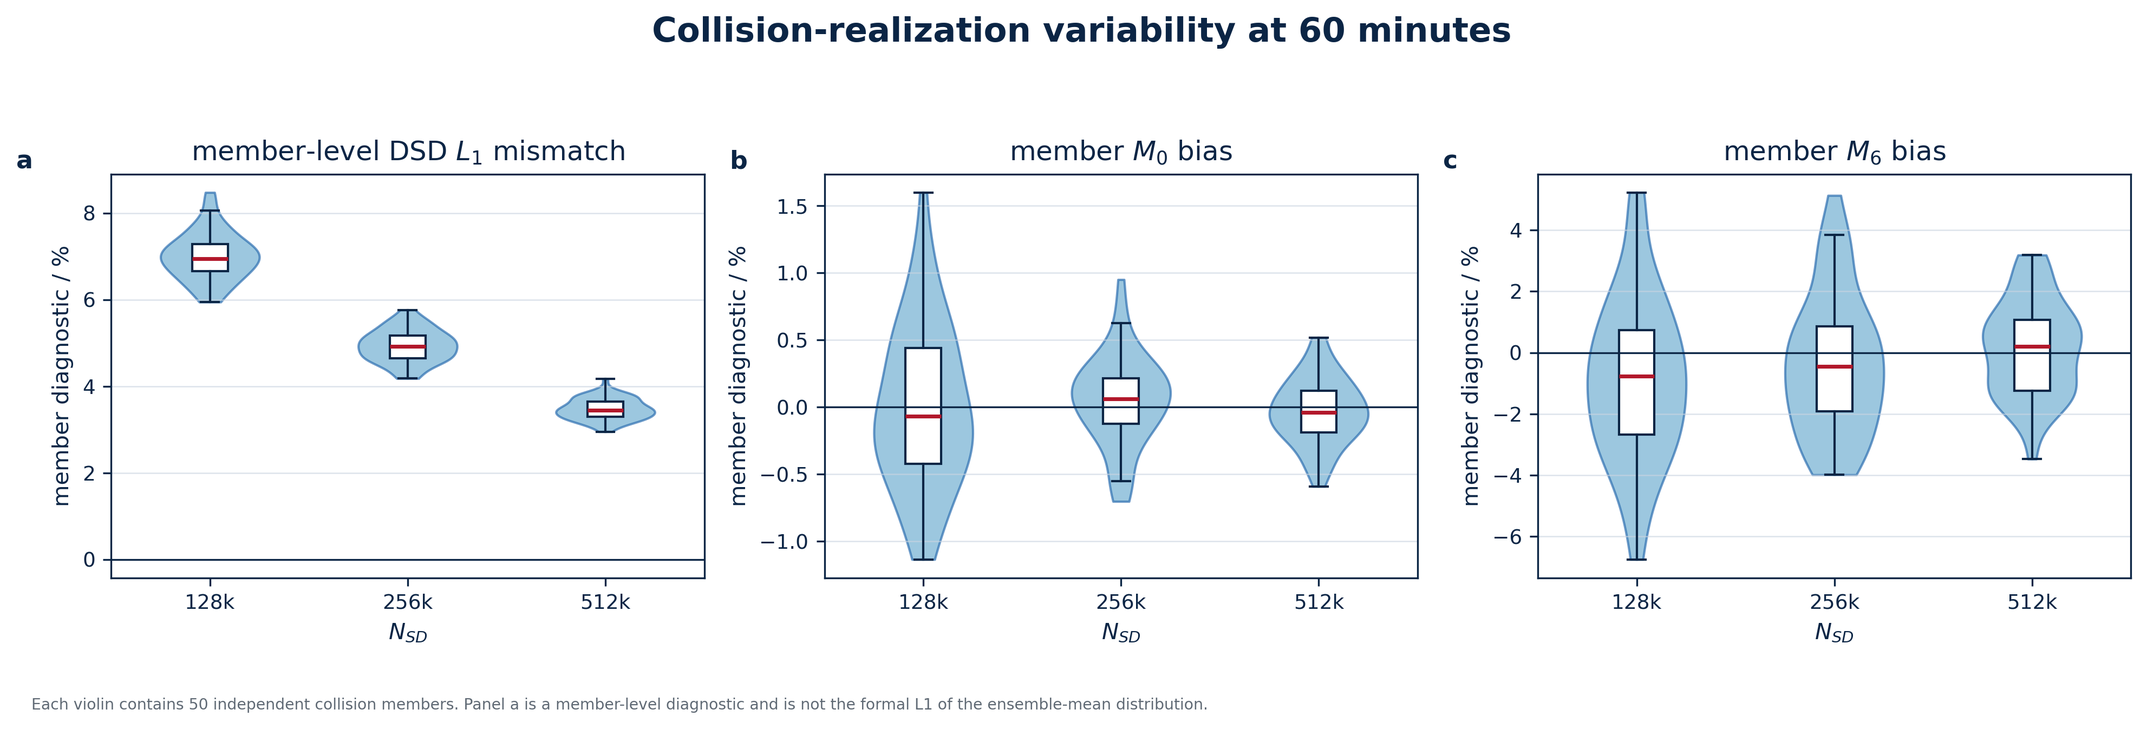
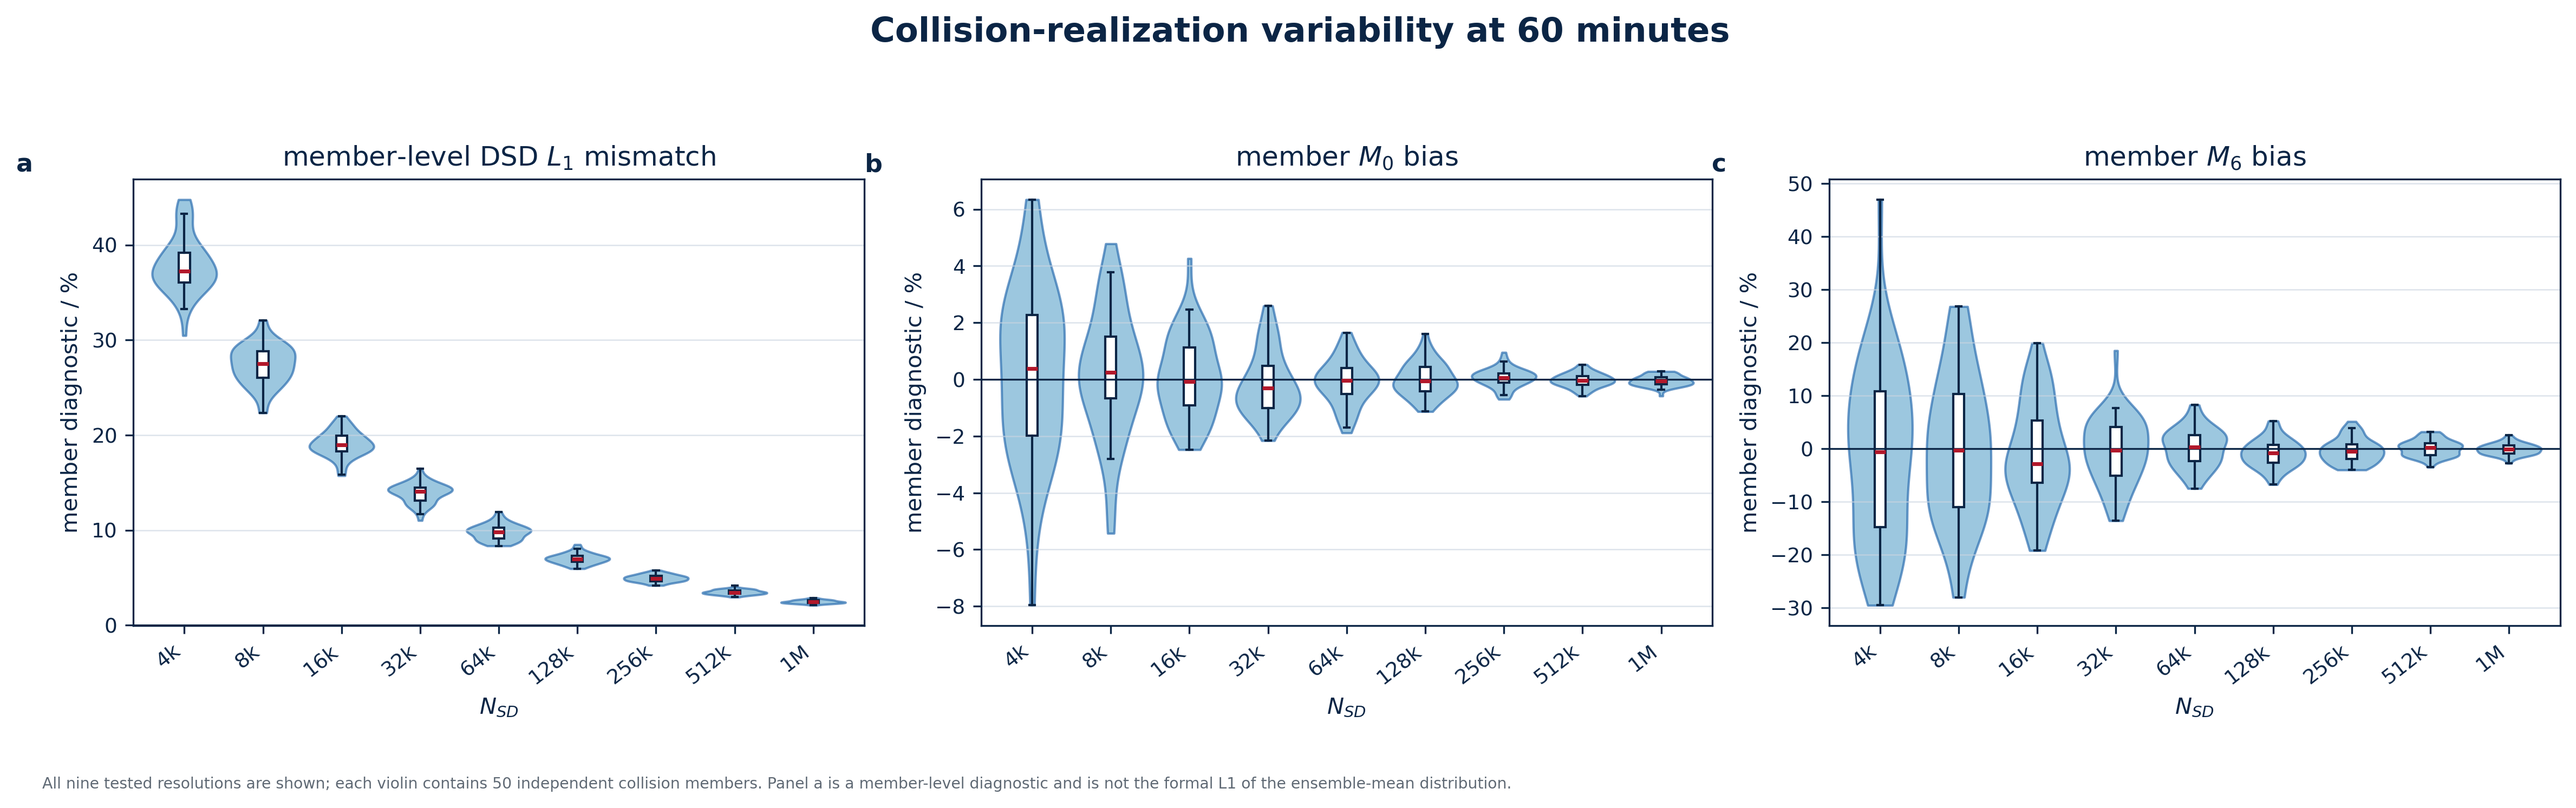
figures: show variability across all Golovin resolutions

diff --git a/scripts/plot_golovin_explanatory_figures.py b/scripts/plot_golovin_explanatory_figures.py
@@ -711,33 +711,51 @@ def plot_integrity_qa(diagnostics: pd.DataFrame, output: Path) -> None:
 
 
 def plot_member_variability(diagnostics: pd.DataFrame, output: Path) -> None:
-    resolutions = [131_072, 262_144, 524_288]
+    resolutions = sorted(
+        int(value) for value in diagnostics["max_superdroplets"].unique()
+    )
+    if len(resolutions) != 9:
+        raise ValueError(
+            f"expected nine fixed-50 resolutions, found {len(resolutions)}"
+        )
     selected = diagnostics[
         diagnostics["max_superdroplets"].isin(resolutions)
         & np.isclose(diagnostics["time_s"], 3600.0, atol=1e-3)
     ]
+    member_counts = selected.groupby("max_superdroplets")["member_index"].nunique()
+    if set(member_counts.index.astype(int)) != set(resolutions) or not np.all(
+        member_counts.to_numpy() == 50
+    ):
+        raise ValueError("expected 50 independent members at every resolution")
     columns = [
         "golovin_fixed_bin_l1_relative_bins_500",
         "golovin_relative_error_radius_moment_0_m3",
         "golovin_relative_error_radius_moment_6_um6_m3",
     ]
     titles = [r"member-level DSD $L_1$ mismatch", r"member $M_0$ bias", r"member $M_6$ bias"]
-    fig, axes = plt.subplots(1, 3, figsize=(13.2, 4.4))
+    positions = np.arange(len(resolutions))
+    fig, axes = plt.subplots(1, 3, figsize=(15.8, 4.9))
     for ax, column, title in zip(axes, columns, titles):
         data = [
             100
             * selected[selected["max_superdroplets"] == resolution][column].to_numpy(dtype=float)
             for resolution in resolutions
         ]
-        parts = ax.violinplot(data, positions=np.arange(3), showmeans=False, showextrema=False)
+        parts = ax.violinplot(
+            data,
+            positions=positions,
+            widths=0.82,
+            showmeans=False,
+            showextrema=False,
+        )
         for body in parts["bodies"]:
             body.set_facecolor(COLORS["sky"])
             body.set_edgecolor(COLORS["blue"])
             body.set_alpha(0.65)
         ax.boxplot(
             data,
-            positions=np.arange(3),
-            widths=0.18,
+            positions=positions,
+            widths=0.14,
             showfliers=False,
             patch_artist=True,
             boxprops=dict(facecolor="white", edgecolor=COLORS["dark"]),
@@ -746,7 +764,13 @@ def plot_member_variability(diagnostics: pd.DataFrame, output: Path) -> None:
             capprops=dict(color=COLORS["dark"]),
         )
         ax.axhline(0, color=COLORS["dark"], linewidth=0.8)
-        ax.set_xticks(np.arange(3), [format_resolution(value) for value in resolutions])
+        ax.set_xticks(
+            positions,
+            [format_resolution(value) for value in resolutions],
+            rotation=38,
+            ha="right",
+        )
+        ax.set_xlim(-0.65, len(resolutions) - 0.35)
         ax.set_xlabel(r"$N_{SD}$")
         ax.set_ylabel("member diagnostic / %")
         ax.set_title(title)
@@ -762,7 +786,7 @@ def plot_member_variability(diagnostics: pd.DataFrame, output: Path) -> None:
     )
     source_footer(
         fig,
-        "Each violin contains 50 independent collision members. Panel a is a member-level diagnostic and is not the formal L1 of the ensemble-mean distribution.",
+        "All nine tested resolutions are shown; each violin contains 50 independent collision members. Panel a is a member-level diagnostic and is not the formal L1 of the ensemble-mean distribution.",
     )
     fig.tight_layout(rect=[0, 0.06, 1, 0.92])
     save_figure(fig, output)
